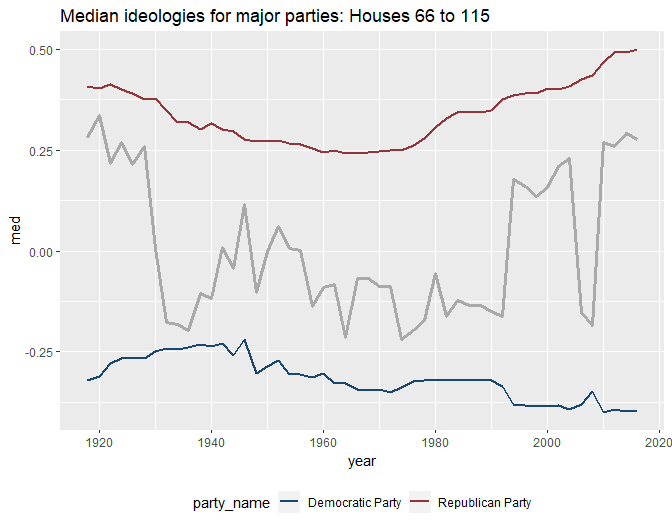
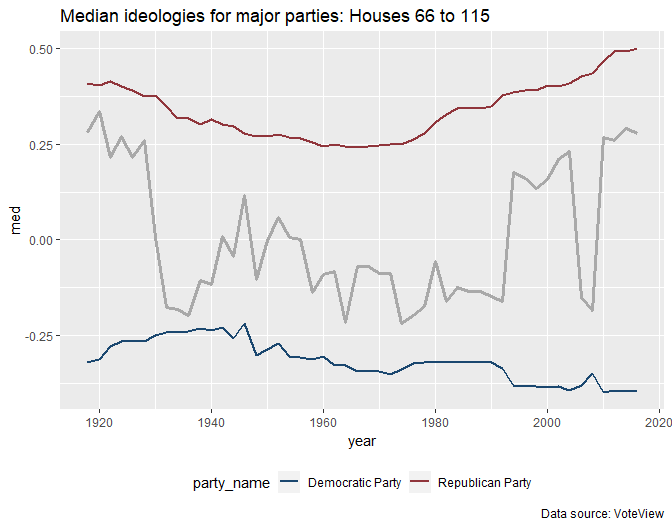
re

diff --git a/README.md b/README.md
@@ -155,7 +155,7 @@ rvoteview_house_50 %>%
 
 #### 2.2 Lawmaker political ideologies
 
-> A brief description of methods.
+> A brief description of methods. Interpreting ideology scores.
 
 ``` r
 extremes <- rvoteview_house_50 %>%
@@ -216,7 +216,7 @@ rvoteview_house_50 %>%
 
 ![](README_files/figure-markdown_github/unnamed-chunk-10-1.png)
 
-Another perspective.
+> Another perspective. A slightly modified version of [this](https://voteview.com/parties/all) VoteView interactive visualization.
 
 ``` r
 rvoteview_house_50 %>%
@@ -233,7 +233,8 @@ rvoteview_house_50 %>%
   ggthemes::scale_color_stata()+
   geom_line(aes(x = year, y= xmed), color = 'darkgray',  size = 1.25) +
   theme(legend.position = 'bottom') +
-  labs(title="Median ideologies for major parties: Houses 66 to 115") 
+  labs(title="Median ideologies for major parties: Houses 66 to 115",
+       caption = 'Data source: VoteView') 
 ```
 
 ![](README_files/figure-markdown_github/unnamed-chunk-11-1.png)
@@ -362,7 +363,7 @@ us_house_districts %>%
 
 #### 4.3 Rural & urban voting
 
-Using the area of congressional districts (in log square meters) as a proxy for degree of urbanity. ... Plot Trump support as function of CD area.
+> Using the area of congressional districts (in log square meters) as a proxy for degree of urbanity. ... Plot Trump support as function of CD area.
 
 ``` r
 us_house_districts %>%
@@ -431,7 +432,13 @@ tidycens_data <- tidycensus::get_acs(geography = 'congressional district',
 
 #### 5.2 The White working class
 
-White men without college degree. As percentage of total population over 25. ie, as a percentage of the electorate.
+> Some definitions. Pundits & news outlets that present data ...
+
+-   White: People who identify racially as White and ethnically as non-Hispanic. Hispanics that identify as White are not included in this count. Race & ethnicity are treated as distinct per the US Census/ACS.
+
+-   College-educated: People who have received a Bachelor's degree or higher. Importantly, this does not include people who have received an Associate's degree. Generally, this count is constrained to the population 25 years & older.
+
+-   White working class: People 25 years & older who identify as White, non-Hispanic who have *not* recieved a Bachelor's degree or higher.
 
 ``` r
 us_house_districts %>% 
